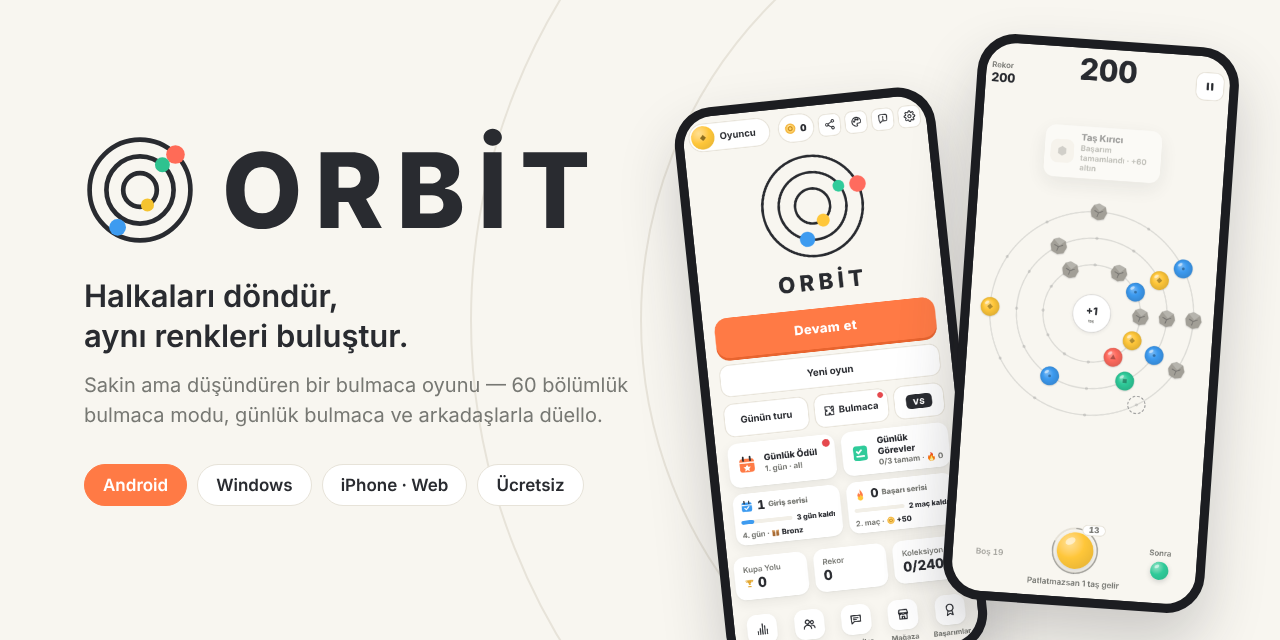
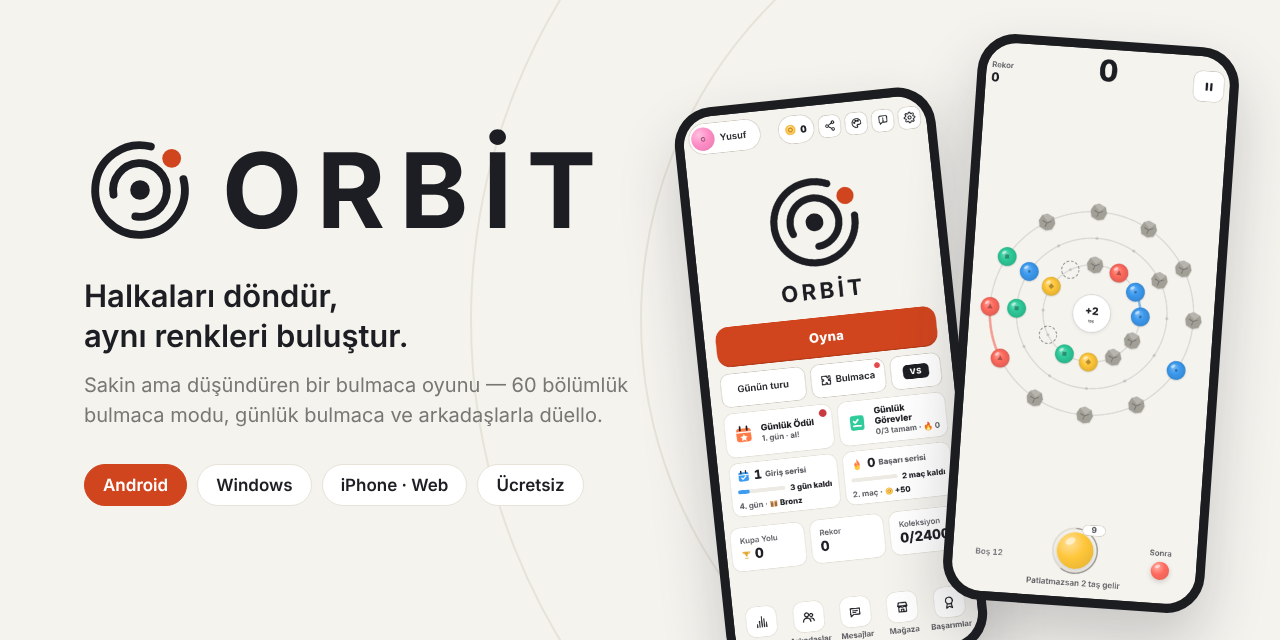
Tanıtım görselleri: ORBİT 4.0 logosu ve ekranları
Claude-Session: https://claude.ai/code/session_01CUsNEZYtCobGLgJDCAHJet

diff --git a/README.md b/README.md
@@ -3,13 +3,13 @@
 </p>
 
 <p align="center">
-  <a href="https://raw.githubusercontent.com/dragony1905/apk/main/ORBIT.apk"><img src="https://img.shields.io/badge/Android-APK%20indir-FF7A45?style=for-the-badge&logo=android&logoColor=white" alt="Android için indir"></a>
-  <a href="https://raw.githubusercontent.com/dragony1905/apk/main/ORBIT-Setup.exe"><img src="https://img.shields.io/badge/Windows-Kurulum%20indir-292B30?style=for-the-badge&logo=windows&logoColor=white" alt="Windows için indir"></a>
+  <a href="https://raw.githubusercontent.com/dragony1905/apk/main/ORBIT.apk"><img src="https://img.shields.io/badge/Android-APK%20indir-D0451E?style=for-the-badge&logo=android&logoColor=white" alt="Android için indir"></a>
+  <a href="https://raw.githubusercontent.com/dragony1905/apk/main/ORBIT-Setup.exe"><img src="https://img.shields.io/badge/Windows-Kurulum%20indir-1C1E23?style=for-the-badge&logo=windows&logoColor=white" alt="Windows için indir"></a>
   <a href="https://orbit-pocket-play.lovable.app"><img src="https://img.shields.io/badge/iPhone%20%C2%B7%20Web-Tarayıcıda%20oyna-3D9BF0?style=for-the-badge&logo=safari&logoColor=white" alt="Tarayıcıda oyna"></a>
 </p>
 
 <p align="center">
-  <a href="../../releases/latest"><img src="https://img.shields.io/github/v/release/dragony1905/apk?label=s%C3%BCr%C3%BCm&color=FF7A45" alt="Son sürüm"></a>
+  <a href="../../releases/latest"><img src="https://img.shields.io/github/v/release/dragony1905/apk?label=s%C3%BCr%C3%BCm&color=D0451E" alt="Son sürüm"></a>
   <img src="https://img.shields.io/badge/fiyat-%C3%BCcretsiz-22A06B" alt="Ücretsiz">
   <img src="https://img.shields.io/badge/dil-T%C3%BCrk%C3%A7e%20%C2%B7%20English-777873" alt="Türkçe ve İngilizce">
 </p>
